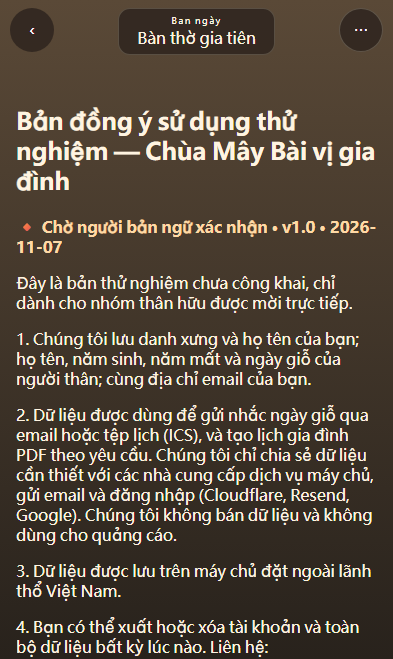
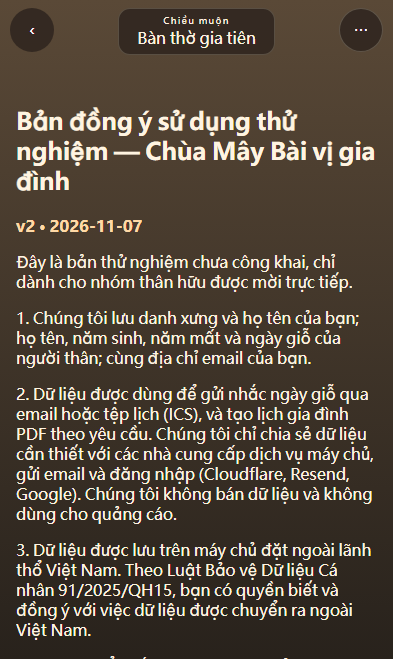
approve Vietnamese family consent copy

Changed region(s): [[0.0305, 0.3338, 0.9466, 1.0], [0.4275, 0.0303, 0.5802, 0.0607]]

diff --git a/family-consent.js b/family-consent.js
@@ -1,9 +1,10 @@
 export const FAMILY_CONSENT_VERSION = "pilot-2026-11-07-v2";
+export const FAMILY_CONSENT_REVIEW = Object.freeze({ nativeLanguage: "approved", legal: "公开上线前需律师确认" });
 
 // Kept separate so native-language and legal review do not require application changes.
 export const FAMILY_CONSENT_COPY = Object.freeze({
   title: "Bản đồng ý sử dụng thử nghiệm — Chùa Mây Bài vị gia đình",
-  review: "🔸 Chờ người bản ngữ xác nhận · v1.0 · 2026-11-07",
+  review: "v2 · 2026-11-07",
   vi: [
     "Đây là bản thử nghiệm chưa công khai, chỉ dành cho nhóm thân hữu được mời trực tiếp.",
     "1. Chúng tôi lưu danh xưng và họ tên của bạn; họ tên, năm sinh, năm mất và ngày giỗ của người thân; cùng địa chỉ email của bạn.",

diff --git a/tests/pilot-presale-ui.py b/tests/pilot-presale-ui.py
@@ -37,8 +37,11 @@ with sync_playwright() as playwright:
         page.goto(BASE + "/family.html")
         page.locator("#new").click()
         page.locator(".consent").wait_for()
-        assert "chờ người bản ngữ" in page.locator(".review").inner_text().lower()
-        assert "leishen8806@gmail.com" in page.locator(".consent").inner_text()
+        consent_text = page.locator(".consent").inner_text()
+        assert "v2" in page.locator(".review").inner_text()
+        assert "chờ người bản ngữ" not in consent_text.lower()
+        assert "公开上线前需律师确认" not in consent_text
+        assert "leishen8806@gmail.com" in consent_text
         assert page.locator("#consent-continue").is_disabled()
         page.screenshot(path=str(OUT / f"{width}x{height}-consent.png"), full_page=True)
         page.locator("#consent-agree").check()
